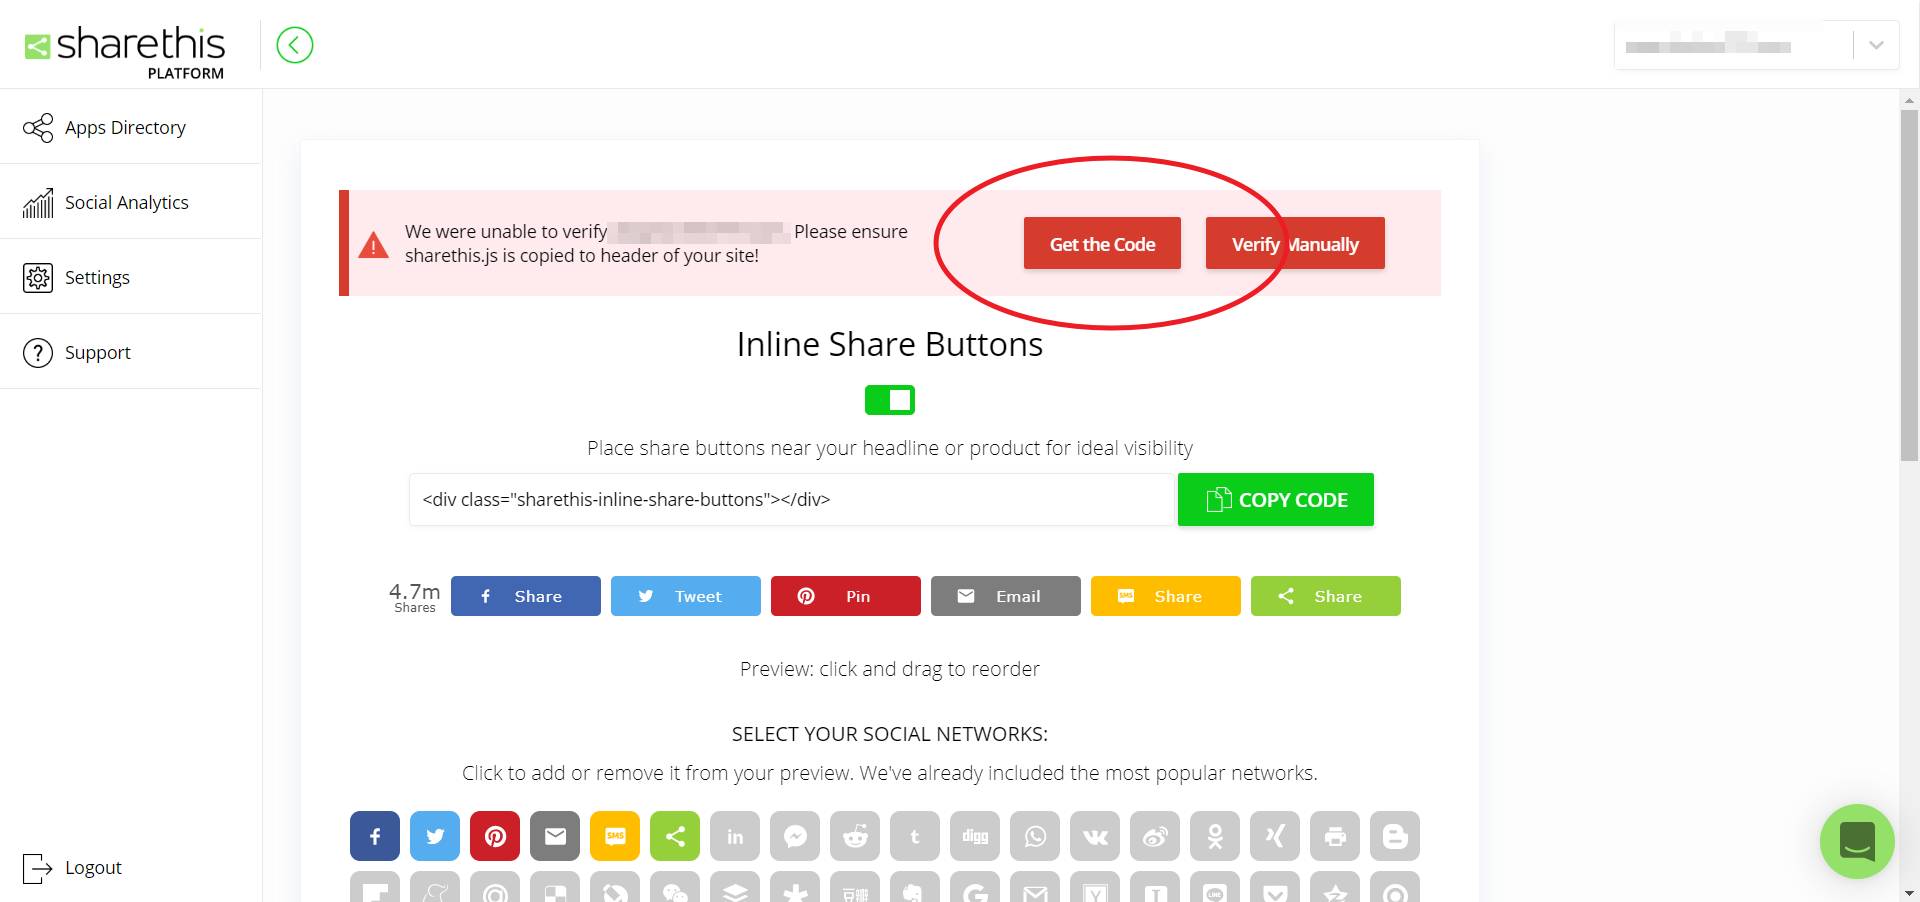
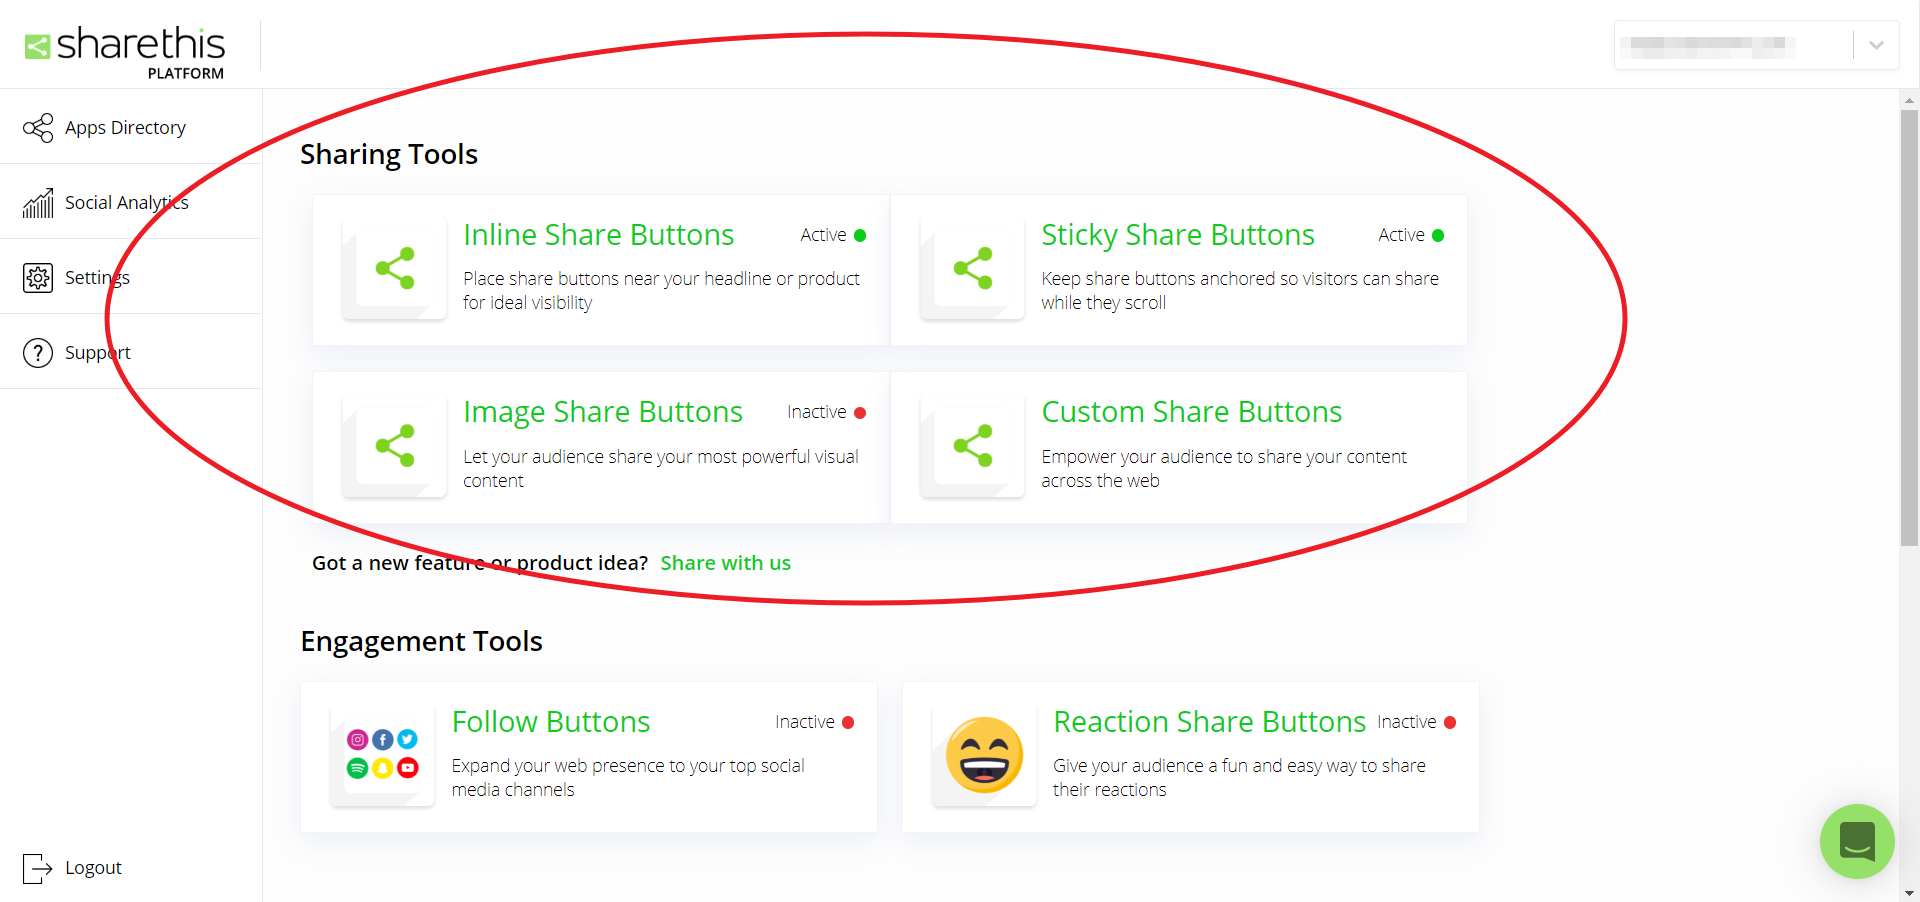
Site updated: 2019-10-27 18:08:58

diff --git a/2019/建置網站記錄2-各種設定/index.html b/2019/建置網站記錄2-各種設定/index.html
@@ -32,9 +32,13 @@
 <meta property="og:image" content="http:&#x2F;&#x2F;blog.brchen777.com&#x2F;2019&#x2F;%E5%BB%BA%E7%BD%AE%E7%B6%B2%E7%AB%99%E8%A8%98%E9%8C%842-%E5%90%84%E7%A8%AE%E8%A8%AD%E5%AE%9A&#x2F;sharethis3.png">
 <meta property="og:image" content="http:&#x2F;&#x2F;blog.brchen777.com&#x2F;2019&#x2F;%E5%BB%BA%E7%BD%AE%E7%B6%B2%E7%AB%99%E8%A8%98%E9%8C%842-%E5%90%84%E7%A8%AE%E8%A8%AD%E5%AE%9A&#x2F;sharethis4.png">
 <meta property="og:image" content="http:&#x2F;&#x2F;blog.brchen777.com&#x2F;2019&#x2F;%E5%BB%BA%E7%BD%AE%E7%B6%B2%E7%AB%99%E8%A8%98%E9%8C%842-%E5%90%84%E7%A8%AE%E8%A8%AD%E5%AE%9A&#x2F;sharethis5.png">
+<meta property="og:image" content="http:&#x2F;&#x2F;blog.brchen777.com&#x2F;2019&#x2F;%E5%BB%BA%E7%BD%AE%E7%B6%B2%E7%AB%99%E8%A8%98%E9%8C%842-%E5%90%84%E7%A8%AE%E8%A8%AD%E5%AE%9A&#x2F;sharethis6.png">
+<meta property="og:image" content="http:&#x2F;&#x2F;blog.brchen777.com&#x2F;2019&#x2F;%E5%BB%BA%E7%BD%AE%E7%B6%B2%E7%AB%99%E8%A8%98%E9%8C%842-%E5%90%84%E7%A8%AE%E8%A8%AD%E5%AE%9A&#x2F;sharethis7.png">
+<meta property="og:image" content="http:&#x2F;&#x2F;blog.brchen777.com&#x2F;2019&#x2F;%E5%BB%BA%E7%BD%AE%E7%B6%B2%E7%AB%99%E8%A8%98%E9%8C%842-%E5%90%84%E7%A8%AE%E8%A8%AD%E5%AE%9A&#x2F;sharethis8.png">
 <meta property="og:image" content="http:&#x2F;&#x2F;blog.brchen777.com&#x2F;2019&#x2F;%E5%BB%BA%E7%BD%AE%E7%B6%B2%E7%AB%99%E8%A8%98%E9%8C%842-%E5%90%84%E7%A8%AE%E8%A8%AD%E5%AE%9A&#x2F;disqus1.png">
 <meta property="og:image" content="http:&#x2F;&#x2F;blog.brchen777.com&#x2F;2019&#x2F;%E5%BB%BA%E7%BD%AE%E7%B6%B2%E7%AB%99%E8%A8%98%E9%8C%842-%E5%90%84%E7%A8%AE%E8%A8%AD%E5%AE%9A&#x2F;disqus2.png">
 <meta property="og:image" content="http:&#x2F;&#x2F;blog.brchen777.com&#x2F;2019&#x2F;%E5%BB%BA%E7%BD%AE%E7%B6%B2%E7%AB%99%E8%A8%98%E9%8C%842-%E5%90%84%E7%A8%AE%E8%A8%AD%E5%AE%9A&#x2F;disqus3.png">
+<meta property="og:image" content="http:&#x2F;&#x2F;blog.brchen777.com&#x2F;2019&#x2F;%E5%BB%BA%E7%BD%AE%E7%B6%B2%E7%AB%99%E8%A8%98%E9%8C%842-%E5%90%84%E7%A8%AE%E8%A8%AD%E5%AE%9A&#x2F;disqus4.png">
 <meta property="og:image" content="http:&#x2F;&#x2F;blog.brchen777.com&#x2F;2019&#x2F;%E5%BB%BA%E7%BD%AE%E7%B6%B2%E7%AB%99%E8%A8%98%E9%8C%842-%E5%90%84%E7%A8%AE%E8%A8%AD%E5%AE%9A&#x2F;google_analytics.png">
 <meta property="og:image" content="http:&#x2F;&#x2F;blog.brchen777.com&#x2F;2019&#x2F;%E5%BB%BA%E7%BD%AE%E7%B6%B2%E7%AB%99%E8%A8%98%E9%8C%842-%E5%90%84%E7%A8%AE%E8%A8%AD%E5%AE%9A&#x2F;menu1.png">
 <meta property="og:image" content="http:&#x2F;&#x2F;blog.brchen777.com&#x2F;2019&#x2F;%E5%BB%BA%E7%BD%AE%E7%B6%B2%E7%AB%99%E8%A8%98%E9%8C%842-%E5%90%84%E7%A8%AE%E8%A8%AD%E5%AE%9A&#x2F;menu2.png">
@@ -43,7 +47,7 @@
 <meta property="og:image" content="http:&#x2F;&#x2F;blog.brchen777.com&#x2F;2019&#x2F;%E5%BB%BA%E7%BD%AE%E7%B6%B2%E7%AB%99%E8%A8%98%E9%8C%842-%E5%90%84%E7%A8%AE%E8%A8%AD%E5%AE%9A&#x2F;dns3.png">
 <meta property="og:image" content="http:&#x2F;&#x2F;blog.brchen777.com&#x2F;2019&#x2F;%E5%BB%BA%E7%BD%AE%E7%B6%B2%E7%AB%99%E8%A8%98%E9%8C%842-%E5%90%84%E7%A8%AE%E8%A8%AD%E5%AE%9A&#x2F;cloudflare_caching1.png">
 <meta property="og:image" content="http:&#x2F;&#x2F;blog.brchen777.com&#x2F;2019&#x2F;%E5%BB%BA%E7%BD%AE%E7%B6%B2%E7%AB%99%E8%A8%98%E9%8C%842-%E5%90%84%E7%A8%AE%E8%A8%AD%E5%AE%9A&#x2F;cloudflare_caching2.png">
-<meta property="og:updated_time" content="2019-10-27T09:35:54.351Z">
+<meta property="og:updated_time" content="2019-10-27T10:08:45.833Z">
 <meta name="twitter:card" content="summary">
 <meta name="twitter:image" content="http:&#x2F;&#x2F;blog.brchen777.com&#x2F;2019&#x2F;%E5%BB%BA%E7%BD%AE%E7%B6%B2%E7%AB%99%E8%A8%98%E9%8C%842-%E5%90%84%E7%A8%AE%E8%A8%AD%E5%AE%9A&#x2F;word_count.png">
 
@@ -232,7 +236,7 @@
         <span class="column is-narrow">
             
             
-            6 minutes read (About 897 words)
+            7 minutes read (About 1023 words)
         </span>
         
     </div>
@@ -260,16 +264,20 @@
 <p><img src="/2019/%E5%BB%BA%E7%BD%AE%E7%B6%B2%E7%AB%99%E8%A8%98%E9%8C%842-%E5%90%84%E7%A8%AE%E8%A8%AD%E5%AE%9A/minos_config.png" alt></p>
 <p>minos 的分享預設是用 <a href="https://sharethis.com/" target="_blank" rel="noopener">sharethis</a></p>
 <p>(1) 註冊一個帳號</p>
-<p>(2) 以 Domain 新增一筆<br><img src="/2019/%E5%BB%BA%E7%BD%AE%E7%B6%B2%E7%AB%99%E8%A8%98%E9%8C%842-%E5%90%84%E7%A8%AE%E8%A8%AD%E5%AE%9A/sharethis1.png" alt></p>
-<p>(3) 點選 “Get the Code”<br><img src="/2019/%E5%BB%BA%E7%BD%AE%E7%B6%B2%E7%AB%99%E8%A8%98%E9%8C%842-%E5%90%84%E7%A8%AE%E8%A8%AD%E5%AE%9A/sharethis2.png" alt></p>
-<p>(4) 複製 js code 的 “src” 的部分 (只要網址就好，不用整個 code)<br><img src="/2019/%E5%BB%BA%E7%BD%AE%E7%B6%B2%E7%AB%99%E8%A8%98%E9%8C%842-%E5%90%84%E7%A8%AE%E8%A8%AD%E5%AE%9A/sharethis3.png" alt></p>
-<p>(5) 網址複製到 /themes/minos/_config.yml 的 “share” 的 “install_url”<br><img src="/2019/%E5%BB%BA%E7%BD%AE%E7%B6%B2%E7%AB%99%E8%A8%98%E9%8C%842-%E5%90%84%E7%A8%AE%E8%A8%AD%E5%AE%9A/sharethis4.png" alt></p>
-<p>(6) 專案 deploy 後點選 “Verify Manually” 並把線上站隨便一篇的網址複製過來進行檢測<br><img src="/2019/%E5%BB%BA%E7%BD%AE%E7%B6%B2%E7%AB%99%E8%A8%98%E9%8C%842-%E5%90%84%E7%A8%AE%E8%A8%AD%E5%AE%9A/sharethis5.png" alt></p>
+<p>(2) 以 Domain 新增一筆 Property<br><img src="/2019/%E5%BB%BA%E7%BD%AE%E7%B6%B2%E7%AB%99%E8%A8%98%E9%8C%842-%E5%90%84%E7%A8%AE%E8%A8%AD%E5%AE%9A/sharethis1.png" alt></p>
+<p>(3) 選擇一個想使用的樣式，裡面可再做細項設定<br><img src="/2019/%E5%BB%BA%E7%BD%AE%E7%B6%B2%E7%AB%99%E8%A8%98%E9%8C%842-%E5%90%84%E7%A8%AE%E8%A8%AD%E5%AE%9A/sharethis2.png" alt></p>
+<p>(4) 設定好樣式後點選 “Get the Code”<br><img src="/2019/%E5%BB%BA%E7%BD%AE%E7%B6%B2%E7%AB%99%E8%A8%98%E9%8C%842-%E5%90%84%E7%A8%AE%E8%A8%AD%E5%AE%9A/sharethis3.png" alt></p>
+<p>(5) 複製 js code 的 “src” 的部分 (只要網址就好，不用整個 code)<br><img src="/2019/%E5%BB%BA%E7%BD%AE%E7%B6%B2%E7%AB%99%E8%A8%98%E9%8C%842-%E5%90%84%E7%A8%AE%E8%A8%AD%E5%AE%9A/sharethis4.png" alt></p>
+<p>(6) 網址複製到 /themes/minos/_config.yml 的 “share” 的 “install_url”<br><img src="/2019/%E5%BB%BA%E7%BD%AE%E7%B6%B2%E7%AB%99%E8%A8%98%E9%8C%842-%E5%90%84%E7%A8%AE%E8%A8%AD%E5%AE%9A/sharethis5.png" alt></p>
+<p>(7) 專案 deploy 後點選 “Verify Manually”<br><img src="/2019/%E5%BB%BA%E7%BD%AE%E7%B6%B2%E7%AB%99%E8%A8%98%E9%8C%842-%E5%90%84%E7%A8%AE%E8%A8%AD%E5%AE%9A/sharethis6.png" alt></p>
+<p>(8) 把線上站隨便一篇的網址複製過來進行檢測，檢測成功的話紅色區快會消失<br><img src="/2019/%E5%BB%BA%E7%BD%AE%E7%B6%B2%E7%AB%99%E8%A8%98%E9%8C%842-%E5%90%84%E7%A8%AE%E8%A8%AD%E5%AE%9A/sharethis7.png" alt></p>
+<p>(9) 設置成功的話網誌倒數第二塊會出現分享功能<br><img src="/2019/%E5%BB%BA%E7%BD%AE%E7%B6%B2%E7%AB%99%E8%A8%98%E9%8C%842-%E5%90%84%E7%A8%AE%E8%A8%AD%E5%AE%9A/sharethis8.png" alt></p>
 <h3 id="留言功能"><a href="#留言功能" class="headerlink" title="留言功能"></a>留言功能</h3><p>minos 的分享預設是用 <a href="https://disqus.com/" target="_blank" rel="noopener">disqus</a></p>
 <p>(1) 註冊一個帳號</p>
 <p>(2) 新增一個 Site<br><img src="/2019/%E5%BB%BA%E7%BD%AE%E7%B6%B2%E7%AB%99%E8%A8%98%E9%8C%842-%E5%90%84%E7%A8%AE%E8%A8%AD%E5%AE%9A/disqus1.png" alt></p>
 <p>(3) 新增完後點選 “general” 並複製 “Shortname” 欄位<br><img src="/2019/%E5%BB%BA%E7%BD%AE%E7%B6%B2%E7%AB%99%E8%A8%98%E9%8C%842-%E5%90%84%E7%A8%AE%E8%A8%AD%E5%AE%9A/disqus2.png" alt></p>
 <p>(4) short name 貼到 /themes/minos/_config.yml 的 “comment” 的 “install_url”<br><img src="/2019/%E5%BB%BA%E7%BD%AE%E7%B6%B2%E7%AB%99%E8%A8%98%E9%8C%842-%E5%90%84%E7%A8%AE%E8%A8%AD%E5%AE%9A/disqus3.png" alt></p>
+<p>(5) 設置成功的話網誌最下方會出現留言功能<br><img src="/2019/%E5%BB%BA%E7%BD%AE%E7%B6%B2%E7%AB%99%E8%A8%98%E9%8C%842-%E5%90%84%E7%A8%AE%E8%A8%AD%E5%AE%9A/disqus4.png" alt></p>
 <h3 id="追蹤"><a href="#追蹤" class="headerlink" title="追蹤"></a>追蹤</h3><p>這邊是用 <a href="https://analytics.google.com/analytics/web/" target="_blank" rel="noopener">Google Analytics</a></p>
 <p>(1) Google 帳號登入</p>
 <p>(2) 新增網站</p>

diff --git a/categories/Web/index.html b/categories/Web/index.html
@@ -155,7 +155,7 @@
         <span class="column is-narrow">
             
             
-            6 minutes read (About 897 words)
+            7 minutes read (About 1023 words)
         </span>
         
     </div>
@@ -183,16 +183,20 @@
 <p><img src="/2019/%E5%BB%BA%E7%BD%AE%E7%B6%B2%E7%AB%99%E8%A8%98%E9%8C%842-%E5%90%84%E7%A8%AE%E8%A8%AD%E5%AE%9A/minos_config.png" alt></p>
 <p>minos 的分享預設是用 <a href="https://sharethis.com/" target="_blank" rel="noopener">sharethis</a></p>
 <p>(1) 註冊一個帳號</p>
-<p>(2) 以 Domain 新增一筆<br><img src="/2019/%E5%BB%BA%E7%BD%AE%E7%B6%B2%E7%AB%99%E8%A8%98%E9%8C%842-%E5%90%84%E7%A8%AE%E8%A8%AD%E5%AE%9A/sharethis1.png" alt></p>
-<p>(3) 點選 “Get the Code”<br><img src="/2019/%E5%BB%BA%E7%BD%AE%E7%B6%B2%E7%AB%99%E8%A8%98%E9%8C%842-%E5%90%84%E7%A8%AE%E8%A8%AD%E5%AE%9A/sharethis2.png" alt></p>
-<p>(4) 複製 js code 的 “src” 的部分 (只要網址就好，不用整個 code)<br><img src="/2019/%E5%BB%BA%E7%BD%AE%E7%B6%B2%E7%AB%99%E8%A8%98%E9%8C%842-%E5%90%84%E7%A8%AE%E8%A8%AD%E5%AE%9A/sharethis3.png" alt></p>
-<p>(5) 網址複製到 /themes/minos/_config.yml 的 “share” 的 “install_url”<br><img src="/2019/%E5%BB%BA%E7%BD%AE%E7%B6%B2%E7%AB%99%E8%A8%98%E9%8C%842-%E5%90%84%E7%A8%AE%E8%A8%AD%E5%AE%9A/sharethis4.png" alt></p>
-<p>(6) 專案 deploy 後點選 “Verify Manually” 並把線上站隨便一篇的網址複製過來進行檢測<br><img src="/2019/%E5%BB%BA%E7%BD%AE%E7%B6%B2%E7%AB%99%E8%A8%98%E9%8C%842-%E5%90%84%E7%A8%AE%E8%A8%AD%E5%AE%9A/sharethis5.png" alt></p>
+<p>(2) 以 Domain 新增一筆 Property<br><img src="/2019/%E5%BB%BA%E7%BD%AE%E7%B6%B2%E7%AB%99%E8%A8%98%E9%8C%842-%E5%90%84%E7%A8%AE%E8%A8%AD%E5%AE%9A/sharethis1.png" alt></p>
+<p>(3) 選擇一個想使用的樣式，裡面可再做細項設定<br><img src="/2019/%E5%BB%BA%E7%BD%AE%E7%B6%B2%E7%AB%99%E8%A8%98%E9%8C%842-%E5%90%84%E7%A8%AE%E8%A8%AD%E5%AE%9A/sharethis2.png" alt></p>
+<p>(4) 設定好樣式後點選 “Get the Code”<br><img src="/2019/%E5%BB%BA%E7%BD%AE%E7%B6%B2%E7%AB%99%E8%A8%98%E9%8C%842-%E5%90%84%E7%A8%AE%E8%A8%AD%E5%AE%9A/sharethis3.png" alt></p>
+<p>(5) 複製 js code 的 “src” 的部分 (只要網址就好，不用整個 code)<br><img src="/2019/%E5%BB%BA%E7%BD%AE%E7%B6%B2%E7%AB%99%E8%A8%98%E9%8C%842-%E5%90%84%E7%A8%AE%E8%A8%AD%E5%AE%9A/sharethis4.png" alt></p>
+<p>(6) 網址複製到 /themes/minos/_config.yml 的 “share” 的 “install_url”<br><img src="/2019/%E5%BB%BA%E7%BD%AE%E7%B6%B2%E7%AB%99%E8%A8%98%E9%8C%842-%E5%90%84%E7%A8%AE%E8%A8%AD%E5%AE%9A/sharethis5.png" alt></p>
+<p>(7) 專案 deploy 後點選 “Verify Manually”<br><img src="/2019/%E5%BB%BA%E7%BD%AE%E7%B6%B2%E7%AB%99%E8%A8%98%E9%8C%842-%E5%90%84%E7%A8%AE%E8%A8%AD%E5%AE%9A/sharethis6.png" alt></p>
+<p>(8) 把線上站隨便一篇的網址複製過來進行檢測，檢測成功的話紅色區快會消失<br><img src="/2019/%E5%BB%BA%E7%BD%AE%E7%B6%B2%E7%AB%99%E8%A8%98%E9%8C%842-%E5%90%84%E7%A8%AE%E8%A8%AD%E5%AE%9A/sharethis7.png" alt></p>
+<p>(9) 設置成功的話網誌倒數第二塊會出現分享功能<br><img src="/2019/%E5%BB%BA%E7%BD%AE%E7%B6%B2%E7%AB%99%E8%A8%98%E9%8C%842-%E5%90%84%E7%A8%AE%E8%A8%AD%E5%AE%9A/sharethis8.png" alt></p>
 <h3 id="留言功能"><a href="#留言功能" class="headerlink" title="留言功能"></a>留言功能</h3><p>minos 的分享預設是用 <a href="https://disqus.com/" target="_blank" rel="noopener">disqus</a></p>
 <p>(1) 註冊一個帳號</p>
 <p>(2) 新增一個 Site<br><img src="/2019/%E5%BB%BA%E7%BD%AE%E7%B6%B2%E7%AB%99%E8%A8%98%E9%8C%842-%E5%90%84%E7%A8%AE%E8%A8%AD%E5%AE%9A/disqus1.png" alt></p>
 <p>(3) 新增完後點選 “general” 並複製 “Shortname” 欄位<br><img src="/2019/%E5%BB%BA%E7%BD%AE%E7%B6%B2%E7%AB%99%E8%A8%98%E9%8C%842-%E5%90%84%E7%A8%AE%E8%A8%AD%E5%AE%9A/disqus2.png" alt></p>
 <p>(4) short name 貼到 /themes/minos/_config.yml 的 “comment” 的 “install_url”<br><img src="/2019/%E5%BB%BA%E7%BD%AE%E7%B6%B2%E7%AB%99%E8%A8%98%E9%8C%842-%E5%90%84%E7%A8%AE%E8%A8%AD%E5%AE%9A/disqus3.png" alt></p>
+<p>(5) 設置成功的話網誌最下方會出現留言功能<br><img src="/2019/%E5%BB%BA%E7%BD%AE%E7%B6%B2%E7%AB%99%E8%A8%98%E9%8C%842-%E5%90%84%E7%A8%AE%E8%A8%AD%E5%AE%9A/disqus4.png" alt></p>
 <h3 id="追蹤"><a href="#追蹤" class="headerlink" title="追蹤"></a>追蹤</h3><p>這邊是用 <a href="https://analytics.google.com/analytics/web/" target="_blank" rel="noopener">Google Analytics</a></p>
 <p>(1) Google 帳號登入</p>
 <p>(2) 新增網站</p>

diff --git a/index.html b/index.html
@@ -148,7 +148,7 @@
         <span class="column is-narrow">
             
             
-            6 minutes read (About 897 words)
+            7 minutes read (About 1023 words)
         </span>
         
     </div>
@@ -176,16 +176,20 @@
 <p><img src="/2019/%E5%BB%BA%E7%BD%AE%E7%B6%B2%E7%AB%99%E8%A8%98%E9%8C%842-%E5%90%84%E7%A8%AE%E8%A8%AD%E5%AE%9A/minos_config.png" alt></p>
 <p>minos 的分享預設是用 <a href="https://sharethis.com/" target="_blank" rel="noopener">sharethis</a></p>
 <p>(1) 註冊一個帳號</p>
-<p>(2) 以 Domain 新增一筆<br><img src="/2019/%E5%BB%BA%E7%BD%AE%E7%B6%B2%E7%AB%99%E8%A8%98%E9%8C%842-%E5%90%84%E7%A8%AE%E8%A8%AD%E5%AE%9A/sharethis1.png" alt></p>
-<p>(3) 點選 “Get the Code”<br><img src="/2019/%E5%BB%BA%E7%BD%AE%E7%B6%B2%E7%AB%99%E8%A8%98%E9%8C%842-%E5%90%84%E7%A8%AE%E8%A8%AD%E5%AE%9A/sharethis2.png" alt></p>
-<p>(4) 複製 js code 的 “src” 的部分 (只要網址就好，不用整個 code)<br><img src="/2019/%E5%BB%BA%E7%BD%AE%E7%B6%B2%E7%AB%99%E8%A8%98%E9%8C%842-%E5%90%84%E7%A8%AE%E8%A8%AD%E5%AE%9A/sharethis3.png" alt></p>
-<p>(5) 網址複製到 /themes/minos/_config.yml 的 “share” 的 “install_url”<br><img src="/2019/%E5%BB%BA%E7%BD%AE%E7%B6%B2%E7%AB%99%E8%A8%98%E9%8C%842-%E5%90%84%E7%A8%AE%E8%A8%AD%E5%AE%9A/sharethis4.png" alt></p>
-<p>(6) 專案 deploy 後點選 “Verify Manually” 並把線上站隨便一篇的網址複製過來進行檢測<br><img src="/2019/%E5%BB%BA%E7%BD%AE%E7%B6%B2%E7%AB%99%E8%A8%98%E9%8C%842-%E5%90%84%E7%A8%AE%E8%A8%AD%E5%AE%9A/sharethis5.png" alt></p>
+<p>(2) 以 Domain 新增一筆 Property<br><img src="/2019/%E5%BB%BA%E7%BD%AE%E7%B6%B2%E7%AB%99%E8%A8%98%E9%8C%842-%E5%90%84%E7%A8%AE%E8%A8%AD%E5%AE%9A/sharethis1.png" alt></p>
+<p>(3) 選擇一個想使用的樣式，裡面可再做細項設定<br><img src="/2019/%E5%BB%BA%E7%BD%AE%E7%B6%B2%E7%AB%99%E8%A8%98%E9%8C%842-%E5%90%84%E7%A8%AE%E8%A8%AD%E5%AE%9A/sharethis2.png" alt></p>
+<p>(4) 設定好樣式後點選 “Get the Code”<br><img src="/2019/%E5%BB%BA%E7%BD%AE%E7%B6%B2%E7%AB%99%E8%A8%98%E9%8C%842-%E5%90%84%E7%A8%AE%E8%A8%AD%E5%AE%9A/sharethis3.png" alt></p>
+<p>(5) 複製 js code 的 “src” 的部分 (只要網址就好，不用整個 code)<br><img src="/2019/%E5%BB%BA%E7%BD%AE%E7%B6%B2%E7%AB%99%E8%A8%98%E9%8C%842-%E5%90%84%E7%A8%AE%E8%A8%AD%E5%AE%9A/sharethis4.png" alt></p>
+<p>(6) 網址複製到 /themes/minos/_config.yml 的 “share” 的 “install_url”<br><img src="/2019/%E5%BB%BA%E7%BD%AE%E7%B6%B2%E7%AB%99%E8%A8%98%E9%8C%842-%E5%90%84%E7%A8%AE%E8%A8%AD%E5%AE%9A/sharethis5.png" alt></p>
+<p>(7) 專案 deploy 後點選 “Verify Manually”<br><img src="/2019/%E5%BB%BA%E7%BD%AE%E7%B6%B2%E7%AB%99%E8%A8%98%E9%8C%842-%E5%90%84%E7%A8%AE%E8%A8%AD%E5%AE%9A/sharethis6.png" alt></p>
+<p>(8) 把線上站隨便一篇的網址複製過來進行檢測，檢測成功的話紅色區快會消失<br><img src="/2019/%E5%BB%BA%E7%BD%AE%E7%B6%B2%E7%AB%99%E8%A8%98%E9%8C%842-%E5%90%84%E7%A8%AE%E8%A8%AD%E5%AE%9A/sharethis7.png" alt></p>
+<p>(9) 設置成功的話網誌倒數第二塊會出現分享功能<br><img src="/2019/%E5%BB%BA%E7%BD%AE%E7%B6%B2%E7%AB%99%E8%A8%98%E9%8C%842-%E5%90%84%E7%A8%AE%E8%A8%AD%E5%AE%9A/sharethis8.png" alt></p>
 <h3 id="留言功能"><a href="#留言功能" class="headerlink" title="留言功能"></a>留言功能</h3><p>minos 的分享預設是用 <a href="https://disqus.com/" target="_blank" rel="noopener">disqus</a></p>
 <p>(1) 註冊一個帳號</p>
 <p>(2) 新增一個 Site<br><img src="/2019/%E5%BB%BA%E7%BD%AE%E7%B6%B2%E7%AB%99%E8%A8%98%E9%8C%842-%E5%90%84%E7%A8%AE%E8%A8%AD%E5%AE%9A/disqus1.png" alt></p>
 <p>(3) 新增完後點選 “general” 並複製 “Shortname” 欄位<br><img src="/2019/%E5%BB%BA%E7%BD%AE%E7%B6%B2%E7%AB%99%E8%A8%98%E9%8C%842-%E5%90%84%E7%A8%AE%E8%A8%AD%E5%AE%9A/disqus2.png" alt></p>
 <p>(4) short name 貼到 /themes/minos/_config.yml 的 “comment” 的 “install_url”<br><img src="/2019/%E5%BB%BA%E7%BD%AE%E7%B6%B2%E7%AB%99%E8%A8%98%E9%8C%842-%E5%90%84%E7%A8%AE%E8%A8%AD%E5%AE%9A/disqus3.png" alt></p>
+<p>(5) 設置成功的話網誌最下方會出現留言功能<br><img src="/2019/%E5%BB%BA%E7%BD%AE%E7%B6%B2%E7%AB%99%E8%A8%98%E9%8C%842-%E5%90%84%E7%A8%AE%E8%A8%AD%E5%AE%9A/disqus4.png" alt></p>
 <h3 id="追蹤"><a href="#追蹤" class="headerlink" title="追蹤"></a>追蹤</h3><p>這邊是用 <a href="https://analytics.google.com/analytics/web/" target="_blank" rel="noopener">Google Analytics</a></p>
 <p>(1) Google 帳號登入</p>
 <p>(2) 新增網站</p>

diff --git a/tags/Blog/index.html b/tags/Blog/index.html
@@ -155,7 +155,7 @@
         <span class="column is-narrow">
             
             
-            6 minutes read (About 897 words)
+            7 minutes read (About 1023 words)
         </span>
         
     </div>
@@ -183,16 +183,20 @@
 <p><img src="/2019/%E5%BB%BA%E7%BD%AE%E7%B6%B2%E7%AB%99%E8%A8%98%E9%8C%842-%E5%90%84%E7%A8%AE%E8%A8%AD%E5%AE%9A/minos_config.png" alt></p>
 <p>minos 的分享預設是用 <a href="https://sharethis.com/" target="_blank" rel="noopener">sharethis</a></p>
 <p>(1) 註冊一個帳號</p>
-<p>(2) 以 Domain 新增一筆<br><img src="/2019/%E5%BB%BA%E7%BD%AE%E7%B6%B2%E7%AB%99%E8%A8%98%E9%8C%842-%E5%90%84%E7%A8%AE%E8%A8%AD%E5%AE%9A/sharethis1.png" alt></p>
-<p>(3) 點選 “Get the Code”<br><img src="/2019/%E5%BB%BA%E7%BD%AE%E7%B6%B2%E7%AB%99%E8%A8%98%E9%8C%842-%E5%90%84%E7%A8%AE%E8%A8%AD%E5%AE%9A/sharethis2.png" alt></p>
-<p>(4) 複製 js code 的 “src” 的部分 (只要網址就好，不用整個 code)<br><img src="/2019/%E5%BB%BA%E7%BD%AE%E7%B6%B2%E7%AB%99%E8%A8%98%E9%8C%842-%E5%90%84%E7%A8%AE%E8%A8%AD%E5%AE%9A/sharethis3.png" alt></p>
-<p>(5) 網址複製到 /themes/minos/_config.yml 的 “share” 的 “install_url”<br><img src="/2019/%E5%BB%BA%E7%BD%AE%E7%B6%B2%E7%AB%99%E8%A8%98%E9%8C%842-%E5%90%84%E7%A8%AE%E8%A8%AD%E5%AE%9A/sharethis4.png" alt></p>
-<p>(6) 專案 deploy 後點選 “Verify Manually” 並把線上站隨便一篇的網址複製過來進行檢測<br><img src="/2019/%E5%BB%BA%E7%BD%AE%E7%B6%B2%E7%AB%99%E8%A8%98%E9%8C%842-%E5%90%84%E7%A8%AE%E8%A8%AD%E5%AE%9A/sharethis5.png" alt></p>
+<p>(2) 以 Domain 新增一筆 Property<br><img src="/2019/%E5%BB%BA%E7%BD%AE%E7%B6%B2%E7%AB%99%E8%A8%98%E9%8C%842-%E5%90%84%E7%A8%AE%E8%A8%AD%E5%AE%9A/sharethis1.png" alt></p>
+<p>(3) 選擇一個想使用的樣式，裡面可再做細項設定<br><img src="/2019/%E5%BB%BA%E7%BD%AE%E7%B6%B2%E7%AB%99%E8%A8%98%E9%8C%842-%E5%90%84%E7%A8%AE%E8%A8%AD%E5%AE%9A/sharethis2.png" alt></p>
+<p>(4) 設定好樣式後點選 “Get the Code”<br><img src="/2019/%E5%BB%BA%E7%BD%AE%E7%B6%B2%E7%AB%99%E8%A8%98%E9%8C%842-%E5%90%84%E7%A8%AE%E8%A8%AD%E5%AE%9A/sharethis3.png" alt></p>
+<p>(5) 複製 js code 的 “src” 的部分 (只要網址就好，不用整個 code)<br><img src="/2019/%E5%BB%BA%E7%BD%AE%E7%B6%B2%E7%AB%99%E8%A8%98%E9%8C%842-%E5%90%84%E7%A8%AE%E8%A8%AD%E5%AE%9A/sharethis4.png" alt></p>
+<p>(6) 網址複製到 /themes/minos/_config.yml 的 “share” 的 “install_url”<br><img src="/2019/%E5%BB%BA%E7%BD%AE%E7%B6%B2%E7%AB%99%E8%A8%98%E9%8C%842-%E5%90%84%E7%A8%AE%E8%A8%AD%E5%AE%9A/sharethis5.png" alt></p>
+<p>(7) 專案 deploy 後點選 “Verify Manually”<br><img src="/2019/%E5%BB%BA%E7%BD%AE%E7%B6%B2%E7%AB%99%E8%A8%98%E9%8C%842-%E5%90%84%E7%A8%AE%E8%A8%AD%E5%AE%9A/sharethis6.png" alt></p>
+<p>(8) 把線上站隨便一篇的網址複製過來進行檢測，檢測成功的話紅色區快會消失<br><img src="/2019/%E5%BB%BA%E7%BD%AE%E7%B6%B2%E7%AB%99%E8%A8%98%E9%8C%842-%E5%90%84%E7%A8%AE%E8%A8%AD%E5%AE%9A/sharethis7.png" alt></p>
+<p>(9) 設置成功的話網誌倒數第二塊會出現分享功能<br><img src="/2019/%E5%BB%BA%E7%BD%AE%E7%B6%B2%E7%AB%99%E8%A8%98%E9%8C%842-%E5%90%84%E7%A8%AE%E8%A8%AD%E5%AE%9A/sharethis8.png" alt></p>
 <h3 id="留言功能"><a href="#留言功能" class="headerlink" title="留言功能"></a>留言功能</h3><p>minos 的分享預設是用 <a href="https://disqus.com/" target="_blank" rel="noopener">disqus</a></p>
 <p>(1) 註冊一個帳號</p>
 <p>(2) 新增一個 Site<br><img src="/2019/%E5%BB%BA%E7%BD%AE%E7%B6%B2%E7%AB%99%E8%A8%98%E9%8C%842-%E5%90%84%E7%A8%AE%E8%A8%AD%E5%AE%9A/disqus1.png" alt></p>
 <p>(3) 新增完後點選 “general” 並複製 “Shortname” 欄位<br><img src="/2019/%E5%BB%BA%E7%BD%AE%E7%B6%B2%E7%AB%99%E8%A8%98%E9%8C%842-%E5%90%84%E7%A8%AE%E8%A8%AD%E5%AE%9A/disqus2.png" alt></p>
 <p>(4) short name 貼到 /themes/minos/_config.yml 的 “comment” 的 “install_url”<br><img src="/2019/%E5%BB%BA%E7%BD%AE%E7%B6%B2%E7%AB%99%E8%A8%98%E9%8C%842-%E5%90%84%E7%A8%AE%E8%A8%AD%E5%AE%9A/disqus3.png" alt></p>
+<p>(5) 設置成功的話網誌最下方會出現留言功能<br><img src="/2019/%E5%BB%BA%E7%BD%AE%E7%B6%B2%E7%AB%99%E8%A8%98%E9%8C%842-%E5%90%84%E7%A8%AE%E8%A8%AD%E5%AE%9A/disqus4.png" alt></p>
 <h3 id="追蹤"><a href="#追蹤" class="headerlink" title="追蹤"></a>追蹤</h3><p>這邊是用 <a href="https://analytics.google.com/analytics/web/" target="_blank" rel="noopener">Google Analytics</a></p>
 <p>(1) Google 帳號登入</p>
 <p>(2) 新增網站</p>
